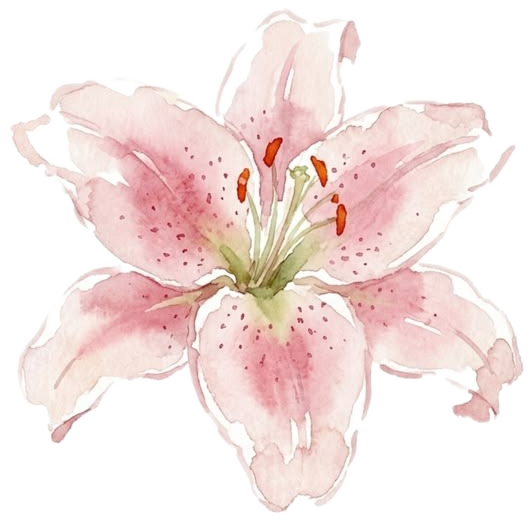
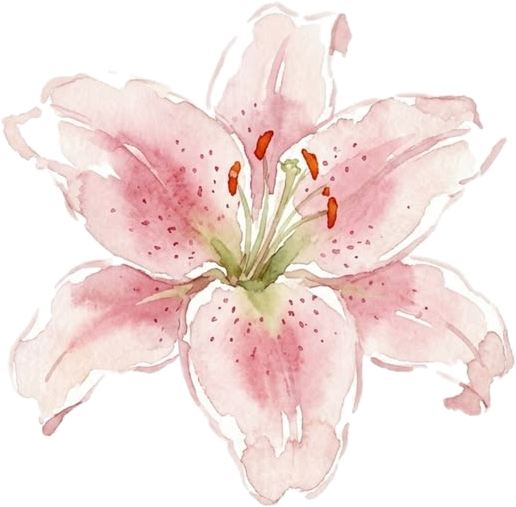
Optimize stargazer lily by removing white halo border and add cache busting for flower assets

diff --git a/index.js b/index.js
@@ -127,7 +127,7 @@ function renderPickerGrid() {
     
     const img = document.createElement("img");
     img.className = "flower-card-img";
-    img.src = `assets/flowers/${flower.name}.png`; // local path
+    img.src = `assets/flowers/${flower.name}.png?v=4`; // local path
     img.alt = `${flower.name} flower`;
     img.loading = "lazy";
     imgWrapper.appendChild(img);
@@ -306,7 +306,7 @@ function renderBouquet(containerId, flowersWrapId, bgId, fgId) {
 
     // Image element
     const img = document.createElement("img");
-    img.src = `assets/flowers/${flowerInfo.name}.png`;
+    img.src = `assets/flowers/${flowerInfo.name}.png?v=4`;
     img.alt = flowerInfo.name;
     img.className = "flower-instance-img";
     img.loading = "eager";
@@ -669,7 +669,7 @@ function showGarden() {
           flowerDiv.style.transform = `translate(${offsets.x}px, ${offsets.y}px) rotate(${flower.rotation}deg)`;
 
           const img = document.createElement("img");
-          img.src = `assets/flowers/${flowerInfo.name}.png`;
+          img.src = `assets/flowers/${flowerInfo.name}.png?v=4`;
           img.alt = flowerInfo.name;
           img.className = "flower-instance-img";
 